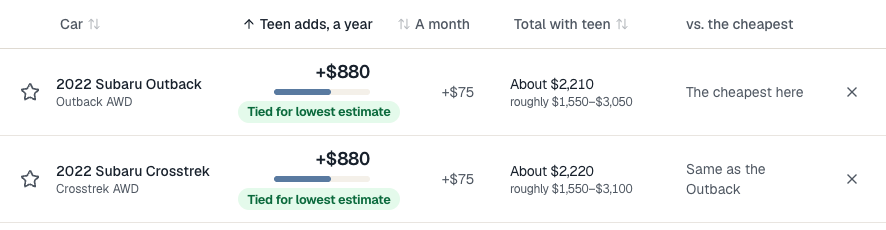
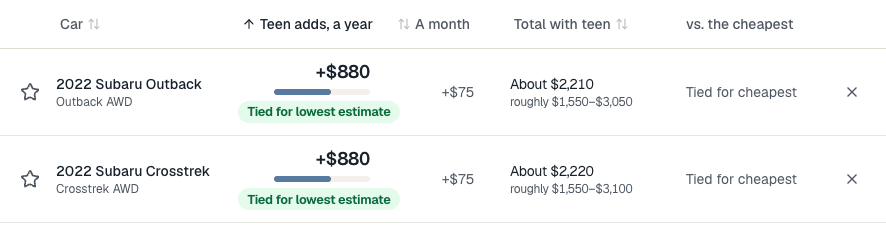
compare: tied cars say "Tied for cheapest" in the vs-the-cheapest column
When cars share the lowest estimate (as shown, to $10), each says "Tied
for cheapest" instead of "The cheapest here" / "Same as the Outback",
matching their "Tied for lowest estimate" badges.

Changed region(s): [[0.7619, 0.7, 0.9142, 0.8522], [0.7619, 0.3652, 0.9142, 0.4261]]

diff --git a/src/components/compare-cars.tsx b/src/components/compare-cars.tsx
@@ -372,6 +372,8 @@ function CompareCarsReady() {
   const monthAmount = (row: CompareRow) => (row.extra !== null ? `+${monthlyDollars(row.extra)}` : monthlyDollars(row.likely))
   const gapWords = (row: CompareRow) => {
     const gap = gaps.get(row.key) ?? 0
+    // Cars tied for the lowest estimate say so, all of them, like their badges.
+    if (lowestKeys.size > 1 && lowestKeys.has(row.key)) return "Tied for cheapest"
     if (!cheapest || row.key === cheapest.key) return null
     if (Math.round(gap / 10) === 0) return `Same as the ${cheapest.car.model}`
     return `${signedDollars(gap)} vs. ${cheapest.car.model}`
